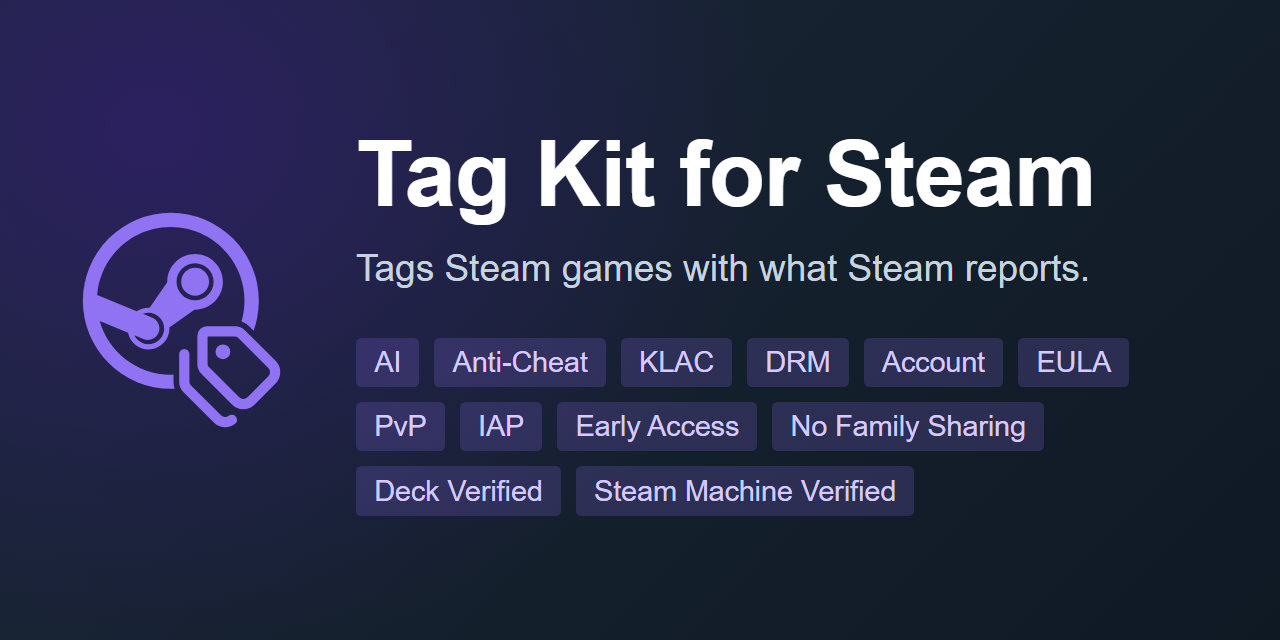
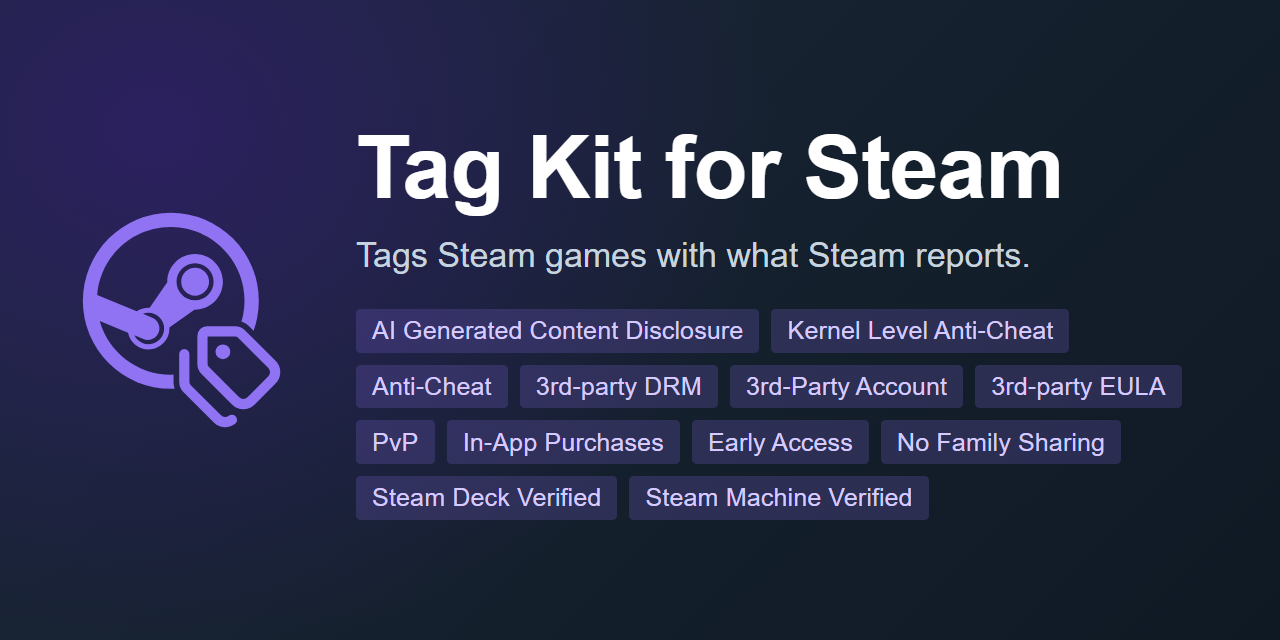
docs(store): spell out every chip in Steam's words on the store graphics
The marquee, the small promo tile and the social preview now name each tag the way Steam's headings do, with no abbreviations.

Chip scale and spacing shrink so the twelve chips fit each size; the smallest chip text, on the promo tile, is 13px.

Changed region(s): [[0.2812, 0.1875, 0.9375, 0.8125]]

diff --git a/docs/store/assets/marquee.html b/docs/store/assets/marquee.html
@@ -13,14 +13,14 @@
       --h: 560px;
       --pad: 90px;
       --gap: 60px;
-      --mark: 240px;
-      --title: 100px;
-      --tagline: 40px;
-      --tagline-gap: 20px;
+      --mark: 220px;
+      --title: 84px;
+      --tagline: 32px;
+      --tagline-gap: 14px;
       --more: 28px;
-      --chips-gap: 48px;
-      --chip-gap: 16px;
-      --k: 2.8;
+      --chips-gap: 28px;
+      --chip-gap: 12px;
+      --k: 2.1;
     }
     </style>
   </head>
@@ -31,21 +31,17 @@
         <div class="title">Tag Kit for Steam</div>
         <p class="tagline">Tags Steam games with what Steam reports.</p>
         <div class="chips">
-          <span class="chip">AI</span>
+          <span class="chip">AI Generated Content Disclosure</span>
+          <span class="chip">Kernel Level Anti-Cheat</span>
           <span class="chip">Anti-Cheat</span>
-          <span class="chip">KLAC</span>
-          <span class="chip">DRM</span>
-          <span class="chip">Account</span>
-          <span class="chip">EULA</span>
-        </div>
-        <div class="chips next">
+          <span class="chip">3rd-party DRM</span>
+          <span class="chip">3rd-Party Account</span>
+          <span class="chip">3rd-party EULA</span>
           <span class="chip">PvP</span>
-          <span class="chip">IAP</span>
+          <span class="chip">In-App Purchases</span>
           <span class="chip">Early Access</span>
           <span class="chip">No Family Sharing</span>
-        </div>
-        <div class="chips next">
-          <span class="chip">Deck Verified</span>
+          <span class="chip">Steam Deck Verified</span>
           <span class="chip">Steam Machine Verified</span>
         </div>
       </div>

diff --git a/docs/store/assets/social-preview.html b/docs/store/assets/social-preview.html
@@ -14,13 +14,13 @@
       --pad: 80px;
       --gap: 56px;
       --mark: 220px;
-      --title: 92px;
-      --tagline: 37px;
-      --tagline-gap: 20px;
+      --title: 88px;
+      --tagline: 34px;
+      --tagline-gap: 16px;
       --more: 26px;
-      --chips-gap: 44px;
-      --chip-gap: 15px;
-      --k: 2.6;
+      --chips-gap: 32px;
+      --chip-gap: 12px;
+      --k: 2.3;
     }
     </style>
   </head>
@@ -31,21 +31,17 @@
         <div class="title">Tag Kit for Steam</div>
         <p class="tagline">Tags Steam games with what Steam reports.</p>
         <div class="chips">
-          <span class="chip">AI</span>
+          <span class="chip">AI Generated Content Disclosure</span>
+          <span class="chip">Kernel Level Anti-Cheat</span>
           <span class="chip">Anti-Cheat</span>
-          <span class="chip">KLAC</span>
-          <span class="chip">DRM</span>
-          <span class="chip">Account</span>
-          <span class="chip">EULA</span>
-        </div>
-        <div class="chips next">
+          <span class="chip">3rd-party DRM</span>
+          <span class="chip">3rd-Party Account</span>
+          <span class="chip">3rd-party EULA</span>
           <span class="chip">PvP</span>
-          <span class="chip">IAP</span>
+          <span class="chip">In-App Purchases</span>
           <span class="chip">Early Access</span>
           <span class="chip">No Family Sharing</span>
-        </div>
-        <div class="chips next">
-          <span class="chip">Deck Verified</span>
+          <span class="chip">Steam Deck Verified</span>
           <span class="chip">Steam Machine Verified</span>
         </div>
       </div>

diff --git a/docs/store/assets/promo-tile.html b/docs/store/assets/promo-tile.html
@@ -16,11 +16,11 @@
       --mark: 56px;
       --title: 33px;
       --tagline: 16px;
-      --tagline-gap: 12px;
+      --tagline-gap: 8px;
       --more: 13px;
-      --chips-gap: 18px;
-      --chip-gap: 7px;
-      --k: 1.5;
+      --chips-gap: 12px;
+      --chip-gap: 5px;
+      --k: 1.2;
     }
     .stage {
       flex-direction: column;
@@ -44,14 +44,18 @@
       <div class="copy">
         <p class="tagline">Tags Steam games with what Steam reports.</p>
         <div class="chips">
-          <span class="chip">AI</span>
-          <span class="chip">KLAC</span>
-          <span class="chip">DRM</span>
+          <span class="chip">AI Generated Content Disclosure</span>
+          <span class="chip">Kernel Level Anti-Cheat</span>
+          <span class="chip">Anti-Cheat</span>
+          <span class="chip">3rd-party DRM</span>
+          <span class="chip">3rd-Party Account</span>
+          <span class="chip">3rd-party EULA</span>
           <span class="chip">PvP</span>
-        </div>
-        <div class="chips next">
-          <span class="chip">Deck Verified</span>
+          <span class="chip">In-App Purchases</span>
+          <span class="chip">Early Access</span>
           <span class="chip">No Family Sharing</span>
+          <span class="chip">Steam Deck Verified</span>
+          <span class="chip">Steam Machine Verified</span>
         </div>
       </div>
     </div>
